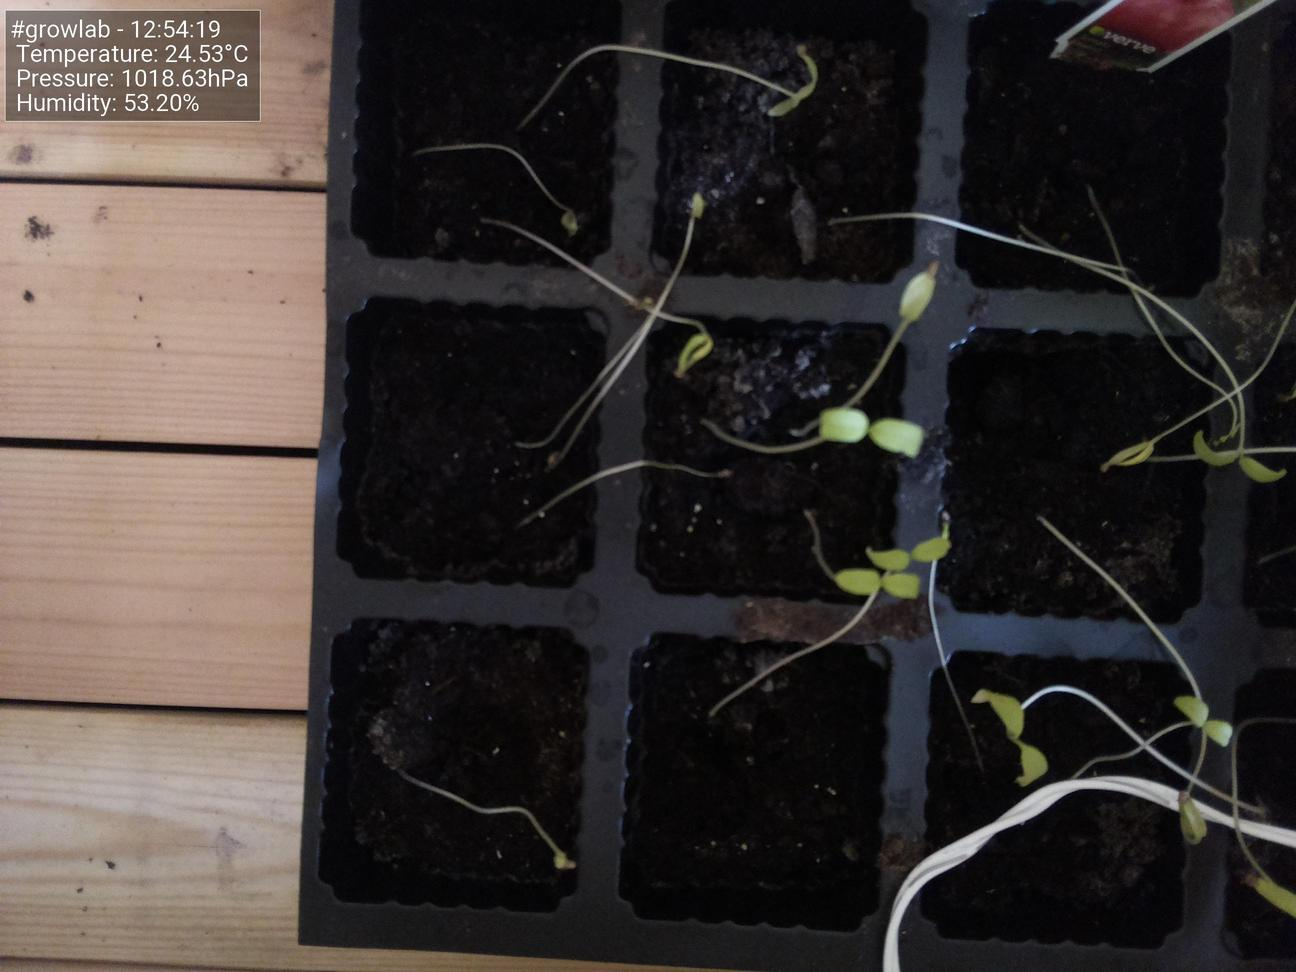
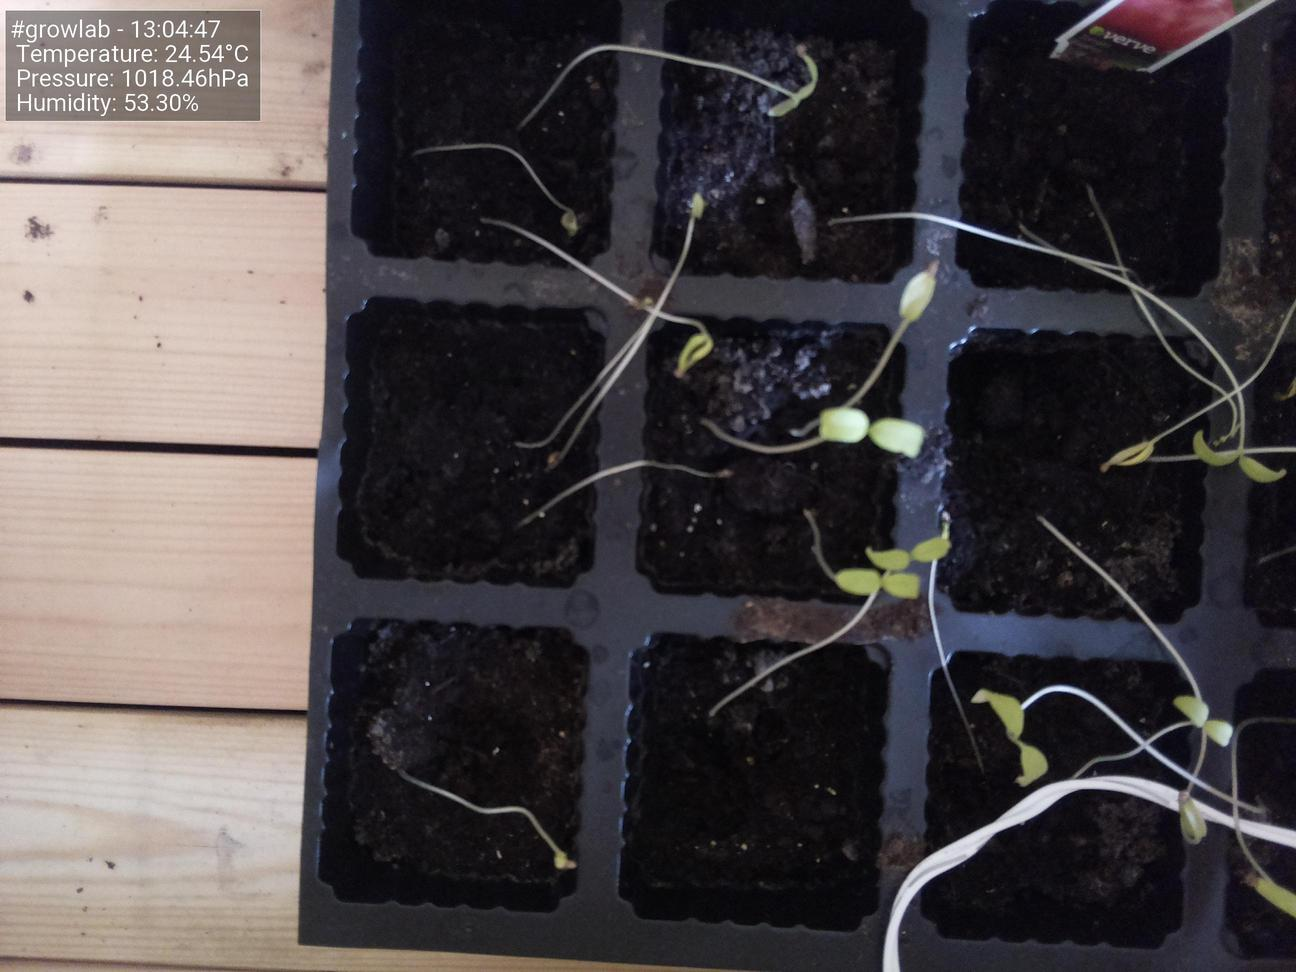
Update images at Sun 13 Jun 13:05:03 BST 2021

diff --git a/index.html b/index.html
@@ -47,19 +47,19 @@
                         <tbody>
                             <tr>
                                 <td>Time</td>
-                                <td>12:54:19</td>
+                                <td>13:04:47</td>
                             </tr>
                             <tr>
                                 <td>Temperature</td>
-                                <td>24.53°C</td>
+                                <td>24.54°C</td>
                             </tr>
                             <tr>
                                 <td>Humidity</td>
-                                <td>53.20%</td>
+                                <td>53.30%</td>
                             </tr>
                             <tr>
                                 <td>Pressure</td>
-                                <td>1018.63hPa</td>
+                                <td>1018.46hPa</td>
                             </tr>
                         </tbody>
                     </table>
@@ -67,7 +67,7 @@
 
                 <h5>Latest image</h5>
                 <div style="width: 85%;">
-                            <img class="figure-img img-fluid rounded" src="./preview.jpg?uid=1623585274.424078">
+                            <img class="figure-img img-fluid rounded" src="./preview.jpg?uid=1623585902.5896285">
                 </div>
             </div>
         </div>
